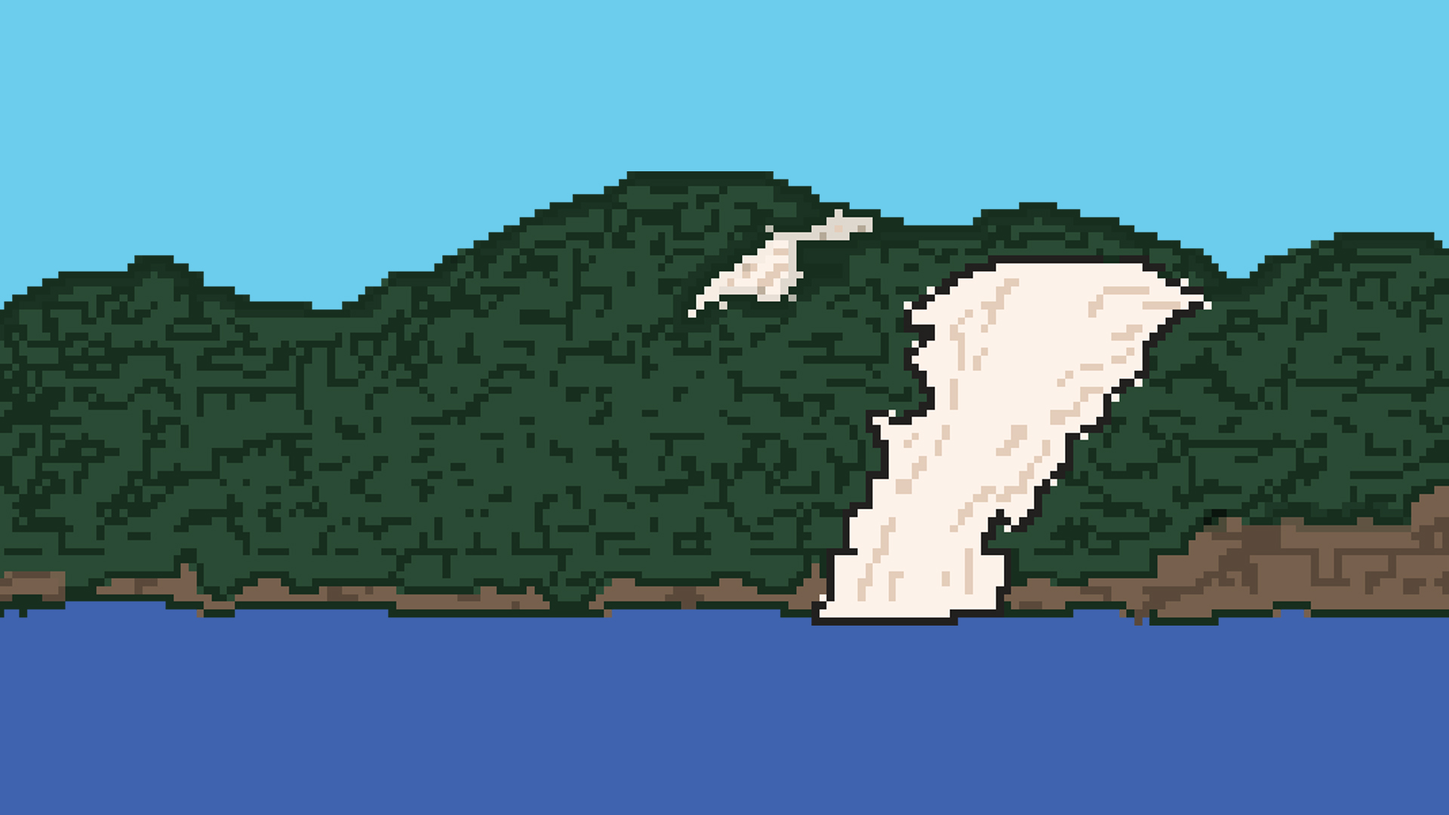
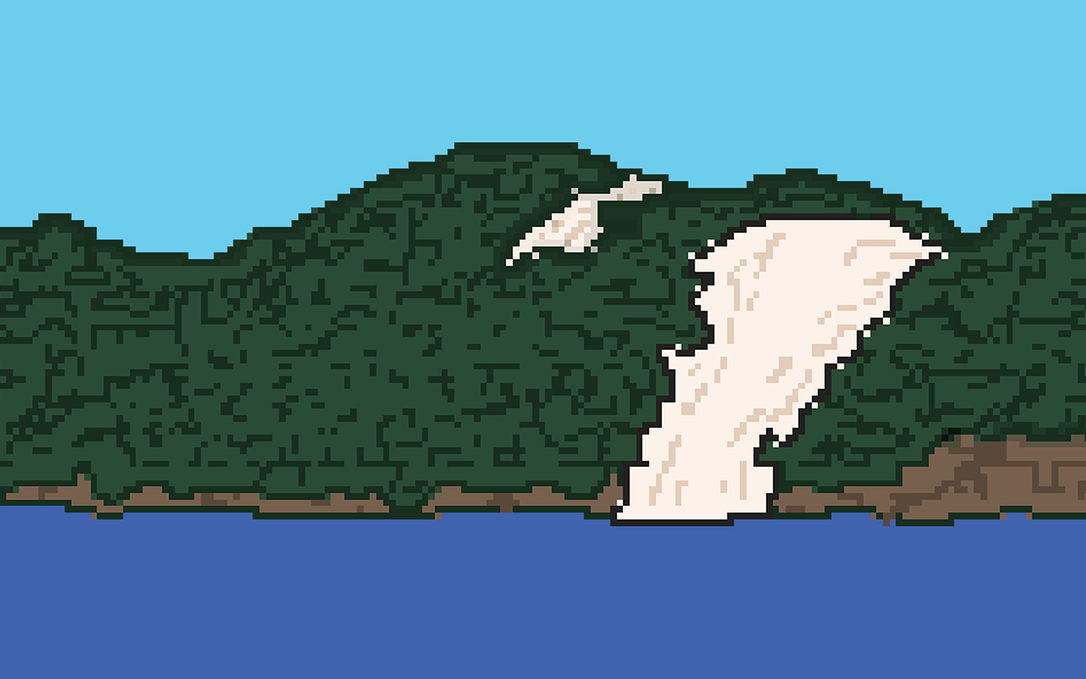
Imagens de fundo responsivas corrigidas.

Changed region(s): [[0.0, 0.1867, 1.0, 0.7778]]

diff --git a/css/style.min.css b/css/style.min.css
@@ -1,1 +1,1 @@
-@charset "UTF-8";@font-face{font-family:"Baloo Bhai";src:url(../fonts/BalooBhai-Regular.eot?) format("eot"),url(../fonts/BalooBhai-Regular.woff) format("woff"),url(../fonts/BalooBhai-Regular.ttf) format("truetype"),url(../fonts/BalooBhai-Regular.otf) format("opentype"),url(../fonts/BalooBhai-Regular.svg#Baloo_Bhai) format("svg")}@font-face{font-family:Roboto;src:url(../fonts/Roboto-Regular.eot?) format("eot"),url(../fonts/Roboto-Regular.woff) format("woff"),url(../fonts/Roboto-Regular.ttf) format("truetype"),url(../fonts/Roboto-Regular.otf) format("opentype"),url(../fonts/Roboto-Regular.svg#Roboto) format("svg")}body{background-color:#002451;font-family:Roboto,sans-serif;color:#fafafa}@media only screen{body{background-color:#002451;background:url(../img/bg/bg-mobile.jpg) no-repeat center center fixed}}@media only screen and (max-width:40em){body{background-color:#002451;background:url(../img/bg/bg-mobile.jpg) no-repeat center center fixed}}@media only screen and (min-width:40.063em){body{background-color:#002451;background:url(../img/bg/bg-mobile.jpg) no-repeat center center fixed}}@media only screen and (min-width:40.063em) and (max-width:64em){body{background-color:#002451;background:url(../img/bg/bg-mobile.jpg) no-repeat center center fixed}}@media only screen and (min-width:64.063em){body{background-color:#002451;background:url(../img/bg/bg.jpg) no-repeat center center fixed}}@media only screen and (min-width:64.063em) and (max-width:90em){body{background-color:#002451;background:url(../img/bg/bg.jpg) no-repeat center center fixed}}@media only screen and (min-width:90.063em){body{background-color:#002451;background:url(../img/bg/bg.jpg) no-repeat center center fixed}}@media only screen and (min-width:90.063em) and (max-width:120em){body{background-color:#002451;background:url(../img/bg/bg.jpg) no-repeat center center fixed}}@media only screen and (min-width:120.063em){body{background-color:#002451;background:url(../img/bg/bg-retina.jpg) no-repeat center center fixed}}body .bg-claro{background-color:#fafafa;background-image:url(../img/wrapper-bg.png)}body h1,body h2,body h3,body h4,body h5,body h6{font-family:"Baloo Bhai",sans-serif;color:#fafafa;text-shadow:1px 1px 1px #222}body p{font-family:Roboto,sans-serif;color:#fafafa}body .alignnone{margin:5px 20px 20px 0}body .aligncenter{display:block;margin:5px auto 5px auto}body div.aligncenter{display:block;margin:5px auto 5px auto}body .alignright{float:right;margin:5px 0 20px 20px}body .alignleft{float:left;margin:5px 20px 20px 0}body a img.alignright{float:right;margin:5px 0 20px 20px}body a img.alignnone{margin:5px 20px 20px 0}body a img.alignleft{float:left;margin:5px 20px 20px 0}body a img.aligncenter{display:block;margin-left:auto;margin-right:auto}body .wp-caption{background:#fff;border:1px solid #f0f0f0;max-width:96%;padding:5px 3px 10px;text-align:center}body .wp-caption img{border:0 none;height:auto;margin:0;max-width:98.5%;padding:0;width:auto}body .wp-caption p.wp-caption-text{font-size:11px;line-height:17px;margin:0;padding:0 4px 5px}body .wp-caption.alignnone{margin:5px 20px 20px 0}body .wp-caption.alignleft{margin:5px 20px 20px 0}body .wp-caption.alignright{margin:5px 0 20px 20px}body .screen-reader-text{border:0;clip:rect(1px,1px,1px,1px);clip-path:inset(50%);height:1px;margin:-1px;overflow:hidden;padding:0;position:absolute!important;width:1px;word-wrap:normal!important}body .screen-reader-text:focus{background-color:#eee;clip:auto!important;clip-path:none;color:#444;display:block;font-size:1em;height:auto;left:5px;line-height:normal;padding:15px 23px 14px;text-decoration:none;top:5px;width:auto;z-index:100000}body header{padding-top:1rem;padding-bottom:1rem}body header .area-logo .logo{background-color:rgba(0,36,81,.8);padding-top:15px;padding-bottom:15px}body header .area-logo .banner{padding-top:15px;padding-bottom:15px}body section .secao-titulo h1{margin:0}body .navegacao{background-color:#6dbe45;margin-bottom:1rem}body .navegacao .top-bar{background-color:#6dbe45!important}body .navegacao .top-bar .title-area .name{background-color:#6dbe45!important}body .navegacao .top-bar .top-bar-section ul{background-color:#6dbe45!important}body .navegacao .top-bar .top-bar-section ul li{background-color:#6dbe45!important}body .navegacao .top-bar .top-bar-section ul li a{background-color:#6dbe45!important;font-family:Roboto,sans-serif;font-size:1rem}body .navegacao .top-bar .top-bar-section ul li a:active,body .navegacao .top-bar .top-bar-section ul li a:focus,body .navegacao .top-bar .top-bar-section ul li a:hover{background-color:#579a36!important;font-weight:700}body .navegacao .top-bar .top-bar-section ul .back a{font-family:Roboto,sans-serif;font-weight:700;font-size:1.2rem}body .navegacao .top-bar .top-bar-section ul .back a::before{content:'◀ '}body .destaques{margin-bottom:1rem}body .destaques .row .destaques-wrapper{padding-top:15px;padding-bottom:15px}body .destaques .row .destaques-wrapper .row .destaque .thumb-container{position:relative;color:#fafafa}body .destaques .row .destaques-wrapper .row .destaque .thumb-container .thumb-texto{background-color:rgba(0,36,81,.8);position:absolute;bottom:10px;left:10px;padding:.5rem}body .destaques .row .destaques-wrapper .row .destaque .thumb-container .thumb-texto h1{margin-top:0;margin-bottom:0}body .destaques .row .destaques-wrapper .row .destaque .thumb-container .thumb-texto p{margin-top:0;margin-bottom:0}body .devs{margin-bottom:1rem}body .conteudo{margin-bottom:1rem}body .conteudo a{color:#c6e6b6}body .conteudo a:active,body .conteudo a:focus,body .conteudo a:hover{color:#e4f3dc}body .conteudo .row .posts-wrapper{padding-top:15px;padding-bottom:15px;min-height:50vh}body .conteudo .row .posts-wrapper .row .noticia .thumb-container{position:relative;color:#fafafa}body .conteudo .row .posts-wrapper .row .noticia .thumb-container .thumb-texto{background-color:rgba(0,36,81,.8);position:absolute;bottom:10px;left:10px;padding:.5rem}body .conteudo .row .posts-wrapper .row .noticia .thumb-container .thumb-texto h1{margin-top:0;margin-bottom:0}body .conteudo .row .posts-wrapper .row .noticia .thumb-container .thumb-texto p{margin-top:0;margin-bottom:0}body .conteudo .row .posts-wrapper .paginacao{font-size:1.2rem;padding-top:1rem}body .conteudo .row .posts-wrapper .paginacao .pagination .nav-links span.current{background-color:#6dbe45;color:#002451}body .conteudo .row .posts-wrapper .paginacao .pagination .nav-links .page-numbers{background-color:#002451;color:#e8e73b;padding:15px}body .conteudo .row .posts-wrapper .paginacao .pagination .nav-links .prev{background-color:#002451;color:#e8e73b}body .conteudo .row .posts-wrapper .paginacao .pagination .nav-links .next{background-color:#002451;color:#e8e73b}body .conteudo-pagina,body .conteudo-post{margin-bottom:1rem}body .conteudo-pagina a,body .conteudo-post a{color:#0068ea}body .conteudo-pagina a:active,body .conteudo-pagina a:focus,body .conteudo-pagina a:hover,body .conteudo-post a:active,body .conteudo-post a:focus,body .conteudo-post a:hover{color:#1e82ff}body .conteudo-pagina .row .pong-breadcrumbs,body .conteudo-post .row .pong-breadcrumbs{background-color:rgba(0,36,81,.8);margin-bottom:1rem;padding:.3rem}body .conteudo-pagina .row .pong-breadcrumbs a,body .conteudo-post .row .pong-breadcrumbs a{color:#9ec9ff}body .conteudo-pagina .row .pong-breadcrumbs a:active,body .conteudo-pagina .row .pong-breadcrumbs a:focus,body .conteudo-pagina .row .pong-breadcrumbs a:hover,body .conteudo-post .row .pong-breadcrumbs a:active,body .conteudo-post .row .pong-breadcrumbs a:focus,body .conteudo-post .row .pong-breadcrumbs a:hover{color:#d1e5ff}body .conteudo-pagina .row .paginas-wrapper,body .conteudo-pagina .row .posts-wrapper,body .conteudo-post .row .paginas-wrapper,body .conteudo-post .row .posts-wrapper{padding-top:15px;padding-bottom:15px;min-height:50vh}body .conteudo-pagina .row .paginas-wrapper .pagina-titulo,body .conteudo-pagina .row .paginas-wrapper .post-titulo,body .conteudo-pagina .row .posts-wrapper .pagina-titulo,body .conteudo-pagina .row .posts-wrapper .post-titulo,body .conteudo-post .row .paginas-wrapper .pagina-titulo,body .conteudo-post .row .paginas-wrapper .post-titulo,body .conteudo-post .row .posts-wrapper .pagina-titulo,body .conteudo-post .row .posts-wrapper .post-titulo{color:#002451}body .conteudo-pagina .row .paginas-wrapper .pagina-titulo h1,body .conteudo-pagina .row .paginas-wrapper .post-titulo h1,body .conteudo-pagina .row .posts-wrapper .pagina-titulo h1,body .conteudo-pagina .row .posts-wrapper .post-titulo h1,body .conteudo-post .row .paginas-wrapper .pagina-titulo h1,body .conteudo-post .row .paginas-wrapper .post-titulo h1,body .conteudo-post .row .posts-wrapper .pagina-titulo h1,body .conteudo-post .row .posts-wrapper .post-titulo h1{font-size:2.8rem;color:#0051b7;margin:0}body .conteudo-pagina .row .paginas-wrapper .pagina-texto,body .conteudo-pagina .row .paginas-wrapper .post-texto,body .conteudo-pagina .row .posts-wrapper .pagina-texto,body .conteudo-pagina .row .posts-wrapper .post-texto,body .conteudo-post .row .paginas-wrapper .pagina-texto,body .conteudo-post .row .paginas-wrapper .post-texto,body .conteudo-post .row .posts-wrapper .pagina-texto,body .conteudo-post .row .posts-wrapper .post-texto{color:#222}body .conteudo-pagina .row .paginas-wrapper .pagina-texto h1,body .conteudo-pagina .row .paginas-wrapper .pagina-texto h2,body .conteudo-pagina .row .paginas-wrapper .pagina-texto h3,body .conteudo-pagina .row .paginas-wrapper .pagina-texto h4,body .conteudo-pagina .row .paginas-wrapper .pagina-texto h5,body .conteudo-pagina .row .paginas-wrapper .pagina-texto h6,body .conteudo-pagina .row .paginas-wrapper .post-texto h1,body .conteudo-pagina .row .paginas-wrapper .post-texto h2,body .conteudo-pagina .row .paginas-wrapper .post-texto h3,body .conteudo-pagina .row .paginas-wrapper .post-texto h4,body .conteudo-pagina .row .paginas-wrapper .post-texto h5,body .conteudo-pagina .row .paginas-wrapper .post-texto h6,body .conteudo-pagina .row .posts-wrapper .pagina-texto h1,body .conteudo-pagina .row .posts-wrapper .pagina-texto h2,body .conteudo-pagina .row .posts-wrapper .pagina-texto h3,body .conteudo-pagina .row .posts-wrapper .pagina-texto h4,body .conteudo-pagina .row .posts-wrapper .pagina-texto h5,body .conteudo-pagina .row .posts-wrapper .pagina-texto h6,body .conteudo-pagina .row .posts-wrapper .post-texto h1,body .conteudo-pagina .row .posts-wrapper .post-texto h2,body .conteudo-pagina .row .posts-wrapper .post-texto h3,body .conteudo-pagina .row .posts-wrapper .post-texto h4,body .conteudo-pagina .row .posts-wrapper .post-texto h5,body .conteudo-pagina .row .posts-wrapper .post-texto h6,body .conteudo-post .row .paginas-wrapper .pagina-texto h1,body .conteudo-post .row .paginas-wrapper .pagina-texto h2,body .conteudo-post .row .paginas-wrapper .pagina-texto h3,body .conteudo-post .row .paginas-wrapper .pagina-texto h4,body .conteudo-post .row .paginas-wrapper .pagina-texto h5,body .conteudo-post .row .paginas-wrapper .pagina-texto h6,body .conteudo-post .row .paginas-wrapper .post-texto h1,body .conteudo-post .row .paginas-wrapper .post-texto h2,body .conteudo-post .row .paginas-wrapper .post-texto h3,body .conteudo-post .row .paginas-wrapper .post-texto h4,body .conteudo-post .row .paginas-wrapper .post-texto h5,body .conteudo-post .row .paginas-wrapper .post-texto h6,body .conteudo-post .row .posts-wrapper .pagina-texto h1,body .conteudo-post .row .posts-wrapper .pagina-texto h2,body .conteudo-post .row .posts-wrapper .pagina-texto h3,body .conteudo-post .row .posts-wrapper .pagina-texto h4,body .conteudo-post .row .posts-wrapper .pagina-texto h5,body .conteudo-post .row .posts-wrapper .pagina-texto h6,body .conteudo-post .row .posts-wrapper .post-texto h1,body .conteudo-post .row .posts-wrapper .post-texto h2,body .conteudo-post .row .posts-wrapper .post-texto h3,body .conteudo-post .row .posts-wrapper .post-texto h4,body .conteudo-post .row .posts-wrapper .post-texto h5,body .conteudo-post .row .posts-wrapper .post-texto h6{color:#222;text-shadow:none}body .conteudo-pagina .row .paginas-wrapper .pagina-texto h1,body .conteudo-pagina .row .paginas-wrapper .post-texto h1,body .conteudo-pagina .row .posts-wrapper .pagina-texto h1,body .conteudo-pagina .row .posts-wrapper .post-texto h1,body .conteudo-post .row .paginas-wrapper .pagina-texto h1,body .conteudo-post .row .paginas-wrapper .post-texto h1,body .conteudo-post .row .posts-wrapper .pagina-texto h1,body .conteudo-post .row .posts-wrapper .post-texto h1{font-size:2.8rem;margin-top:.2rem;margin-bottom:.5rem}body .conteudo-pagina .row .paginas-wrapper .pagina-texto p,body .conteudo-pagina .row .paginas-wrapper .post-texto p,body .conteudo-pagina .row .posts-wrapper .pagina-texto p,body .conteudo-pagina .row .posts-wrapper .post-texto p,body .conteudo-post .row .paginas-wrapper .pagina-texto p,body .conteudo-post .row .paginas-wrapper .post-texto p,body .conteudo-post .row .posts-wrapper .pagina-texto p,body .conteudo-post .row .posts-wrapper .post-texto p{color:#222}body .conteudo-pagina .row .paginas-wrapper .post-comentarios,body .conteudo-pagina .row .posts-wrapper .post-comentarios,body .conteudo-post .row .paginas-wrapper .post-comentarios,body .conteudo-post .row .posts-wrapper .post-comentarios{color:#222}body .conteudo-pagina .row .paginas-wrapper .post-comentarios p,body .conteudo-pagina .row .posts-wrapper .post-comentarios p,body .conteudo-post .row .paginas-wrapper .post-comentarios p,body .conteudo-post .row .posts-wrapper .post-comentarios p{color:#222}body .conteudo-pagina .row .sidebar,body .conteudo-post .row .sidebar{background-color:rgba(109,190,69,.9)}body .conteudo-pagina .row .sidebar a,body .conteudo-post .row .sidebar a{color:#0068ea}body .conteudo-pagina .row .sidebar a:active,body .conteudo-pagina .row .sidebar a:focus,body .conteudo-pagina .row .sidebar a:hover,body .conteudo-post .row .sidebar a:active,body .conteudo-post .row .sidebar a:focus,body .conteudo-post .row .sidebar a:hover{color:#1e82ff}body .conteudo-pagina .row .sidebar .widget,body .conteudo-post .row .sidebar .widget{margin-bottom:1rem}body .conteudo-pagina .row .sidebar .widget h1,body .conteudo-post .row .sidebar .widget h1{background-color:#579a36;padding-left:.5rem;padding-right:.5rem;margin-top:.5rem;margin-bottom:.5rem}body footer{padding-top:1rem;padding-bottom:1rem;background-color:rgba(109,190,69,.9);color:#fafafa}body footer a{color:#0068ea}body footer a:active,body footer a:focus,body footer a:hover{color:#1e82ff}body footer .row .widgets{margin-top:1rem;display:flex;flex-direction:row;flex-wrap:wrap}body footer .row .widgets .widget{margin-bottom:1rem}body footer .row .widgets .widget h1{background-color:#579a36;padding-left:.5rem;padding-right:.5rem;margin-top:.5rem;margin-bottom:.5rem}body footer .row .creditos{font-size:.9rem}
+@charset "UTF-8";@font-face{font-family:"Baloo Bhai";src:url(../fonts/BalooBhai-Regular.eot?) format("eot"),url(../fonts/BalooBhai-Regular.woff) format("woff"),url(../fonts/BalooBhai-Regular.ttf) format("truetype"),url(../fonts/BalooBhai-Regular.otf) format("opentype"),url(../fonts/BalooBhai-Regular.svg#Baloo_Bhai) format("svg")}@font-face{font-family:Roboto;src:url(../fonts/Roboto-Regular.eot?) format("eot"),url(../fonts/Roboto-Regular.woff) format("woff"),url(../fonts/Roboto-Regular.ttf) format("truetype"),url(../fonts/Roboto-Regular.otf) format("opentype"),url(../fonts/Roboto-Regular.svg#Roboto) format("svg")}body{background-color:#002451;font-family:Roboto,sans-serif;color:#fafafa}@media only screen{body{background-color:#002451;background:url(../img/bg/bg-mobile.jpg) no-repeat center center fixed;background-size:cover}}@media only screen and (max-width:40em){body{background-color:#002451;background:url(../img/bg/bg-mobile.jpg) no-repeat center center fixed;background-size:cover}}@media only screen and (min-width:40.063em){body{background-color:#002451;background:url(../img/bg/bg-medium.jpg) no-repeat center center fixed;background-size:cover}}@media only screen and (min-width:40.063em) and (max-width:64em){body{background-color:#002451;background:url(../img/bg/bg-medium.jpg) no-repeat center center fixed;background-size:cover}}@media only screen and (min-width:64.063em){body{background-color:#002451;background:url(../img/bg/bg.jpg) no-repeat center center fixed;background-size:cover}}@media only screen and (min-width:64.063em) and (max-width:90em){body{background-color:#002451;background:url(../img/bg/bg.jpg) no-repeat center center fixed;background-size:cover}}@media only screen and (min-width:90.063em){body{background-color:#002451;background:url(../img/bg/bg-hd.jpg) no-repeat center center fixed;background-size:cover}}@media only screen and (min-width:90.063em) and (max-width:120em){body{background-color:#002451;background:url(../img/bg/bg-hd.jpg) no-repeat center center fixed;background-size:cover}}@media only screen and (min-width:120.063em){body{background-color:#002451;background:url(../img/bg/bg-retina.jpg) no-repeat center center fixed;background-size:cover}}body .bg-claro{background-color:#fafafa;background-image:url(../img/wrapper-bg.png)}body h1,body h2,body h3,body h4,body h5,body h6{font-family:"Baloo Bhai",sans-serif;color:#fafafa;text-shadow:1px 1px 1px #222}body p{font-family:Roboto,sans-serif;color:#fafafa}body .alignnone{margin:5px 20px 20px 0}body .aligncenter{display:block;margin:5px auto 5px auto}body div.aligncenter{display:block;margin:5px auto 5px auto}body .alignright{float:right;margin:5px 0 20px 20px}body .alignleft{float:left;margin:5px 20px 20px 0}body a img.alignright{float:right;margin:5px 0 20px 20px}body a img.alignnone{margin:5px 20px 20px 0}body a img.alignleft{float:left;margin:5px 20px 20px 0}body a img.aligncenter{display:block;margin-left:auto;margin-right:auto}body .wp-caption{background:#fff;border:1px solid #f0f0f0;max-width:96%;padding:5px 3px 10px;text-align:center}body .wp-caption img{border:0 none;height:auto;margin:0;max-width:98.5%;padding:0;width:auto}body .wp-caption p.wp-caption-text{font-size:11px;line-height:17px;margin:0;padding:0 4px 5px}body .wp-caption.alignnone{margin:5px 20px 20px 0}body .wp-caption.alignleft{margin:5px 20px 20px 0}body .wp-caption.alignright{margin:5px 0 20px 20px}body .screen-reader-text{border:0;clip:rect(1px,1px,1px,1px);clip-path:inset(50%);height:1px;margin:-1px;overflow:hidden;padding:0;position:absolute!important;width:1px;word-wrap:normal!important}body .screen-reader-text:focus{background-color:#eee;clip:auto!important;clip-path:none;color:#444;display:block;font-size:1em;height:auto;left:5px;line-height:normal;padding:15px 23px 14px;text-decoration:none;top:5px;width:auto;z-index:100000}body header{padding-top:1rem;padding-bottom:1rem}body header .area-logo .logo{background-color:rgba(0,36,81,.8);padding-top:15px;padding-bottom:15px}body header .area-logo .banner{padding-top:15px;padding-bottom:15px}body section .secao-titulo h1{margin:0}body .navegacao{background-color:#6dbe45;margin-bottom:1rem}body .navegacao .top-bar{background-color:#6dbe45!important}body .navegacao .top-bar .title-area .name{background-color:#6dbe45!important}body .navegacao .top-bar .top-bar-section ul{background-color:#6dbe45!important}body .navegacao .top-bar .top-bar-section ul li{background-color:#6dbe45!important}body .navegacao .top-bar .top-bar-section ul li a{background-color:#6dbe45!important;font-family:Roboto,sans-serif;font-size:1rem}body .navegacao .top-bar .top-bar-section ul li a:active,body .navegacao .top-bar .top-bar-section ul li a:focus,body .navegacao .top-bar .top-bar-section ul li a:hover{background-color:#579a36!important;font-weight:700}body .navegacao .top-bar .top-bar-section ul .back a{font-family:Roboto,sans-serif;font-weight:700;font-size:1.2rem}body .navegacao .top-bar .top-bar-section ul .back a::before{content:'◀ '}body .destaques{margin-bottom:1rem}body .destaques .row .destaques-wrapper{padding-top:15px;padding-bottom:15px}body .destaques .row .destaques-wrapper .row .destaque .thumb-container{position:relative;color:#fafafa}body .destaques .row .destaques-wrapper .row .destaque .thumb-container .thumb-texto{background-color:rgba(0,36,81,.8);position:absolute;bottom:10px;left:10px;padding:.5rem}body .destaques .row .destaques-wrapper .row .destaque .thumb-container .thumb-texto h1{margin-top:0;margin-bottom:0}body .destaques .row .destaques-wrapper .row .destaque .thumb-container .thumb-texto p{margin-top:0;margin-bottom:0}body .devs{margin-bottom:1rem}body .conteudo{margin-bottom:1rem}body .conteudo a{color:#c6e6b6}body .conteudo a:active,body .conteudo a:focus,body .conteudo a:hover{color:#e4f3dc}body .conteudo .row .posts-wrapper{padding-top:15px;padding-bottom:15px;min-height:25vh}body .conteudo .row .posts-wrapper .row .noticia .thumb-container{position:relative;color:#fafafa}body .conteudo .row .posts-wrapper .row .noticia .thumb-container .thumb-texto{background-color:rgba(0,36,81,.8);position:absolute;bottom:10px;left:10px;padding:.5rem}body .conteudo .row .posts-wrapper .row .noticia .thumb-container .thumb-texto h1{margin-top:0;margin-bottom:0}body .conteudo .row .posts-wrapper .row .noticia .thumb-container .thumb-texto p{margin-top:0;margin-bottom:0}body .conteudo .row .posts-wrapper .paginacao{font-size:1.2rem;padding-top:1rem}body .conteudo .row .posts-wrapper .paginacao .pagination .nav-links span.current{background-color:#6dbe45;color:#002451}body .conteudo .row .posts-wrapper .paginacao .pagination .nav-links .page-numbers{background-color:#002451;color:#e8e73b;padding:15px}body .conteudo .row .posts-wrapper .paginacao .pagination .nav-links .prev{background-color:#002451;color:#e8e73b}body .conteudo .row .posts-wrapper .paginacao .pagination .nav-links .next{background-color:#002451;color:#e8e73b}body .conteudo-pagina,body .conteudo-post{margin-bottom:1rem}body .conteudo-pagina a,body .conteudo-post a{color:#0068ea}body .conteudo-pagina a:active,body .conteudo-pagina a:focus,body .conteudo-pagina a:hover,body .conteudo-post a:active,body .conteudo-post a:focus,body .conteudo-post a:hover{color:#1e82ff}body .conteudo-pagina .row .pong-breadcrumbs,body .conteudo-post .row .pong-breadcrumbs{background-color:rgba(0,36,81,.8);margin-bottom:1rem;padding:.3rem}body .conteudo-pagina .row .pong-breadcrumbs a,body .conteudo-post .row .pong-breadcrumbs a{color:#9ec9ff}body .conteudo-pagina .row .pong-breadcrumbs a:active,body .conteudo-pagina .row .pong-breadcrumbs a:focus,body .conteudo-pagina .row .pong-breadcrumbs a:hover,body .conteudo-post .row .pong-breadcrumbs a:active,body .conteudo-post .row .pong-breadcrumbs a:focus,body .conteudo-post .row .pong-breadcrumbs a:hover{color:#d1e5ff}body .conteudo-pagina .row .paginas-wrapper,body .conteudo-pagina .row .posts-wrapper,body .conteudo-post .row .paginas-wrapper,body .conteudo-post .row .posts-wrapper{padding-top:15px;padding-bottom:15px;min-height:25vh}body .conteudo-pagina .row .paginas-wrapper .pagina-titulo,body .conteudo-pagina .row .paginas-wrapper .post-titulo,body .conteudo-pagina .row .posts-wrapper .pagina-titulo,body .conteudo-pagina .row .posts-wrapper .post-titulo,body .conteudo-post .row .paginas-wrapper .pagina-titulo,body .conteudo-post .row .paginas-wrapper .post-titulo,body .conteudo-post .row .posts-wrapper .pagina-titulo,body .conteudo-post .row .posts-wrapper .post-titulo{color:#002451}body .conteudo-pagina .row .paginas-wrapper .pagina-titulo h1,body .conteudo-pagina .row .paginas-wrapper .post-titulo h1,body .conteudo-pagina .row .posts-wrapper .pagina-titulo h1,body .conteudo-pagina .row .posts-wrapper .post-titulo h1,body .conteudo-post .row .paginas-wrapper .pagina-titulo h1,body .conteudo-post .row .paginas-wrapper .post-titulo h1,body .conteudo-post .row .posts-wrapper .pagina-titulo h1,body .conteudo-post .row .posts-wrapper .post-titulo h1{font-size:2.8rem;color:#0051b7;margin:0}body .conteudo-pagina .row .paginas-wrapper .pagina-texto,body .conteudo-pagina .row .paginas-wrapper .post-texto,body .conteudo-pagina .row .posts-wrapper .pagina-texto,body .conteudo-pagina .row .posts-wrapper .post-texto,body .conteudo-post .row .paginas-wrapper .pagina-texto,body .conteudo-post .row .paginas-wrapper .post-texto,body .conteudo-post .row .posts-wrapper .pagina-texto,body .conteudo-post .row .posts-wrapper .post-texto{color:#222}body .conteudo-pagina .row .paginas-wrapper .pagina-texto h1,body .conteudo-pagina .row .paginas-wrapper .pagina-texto h2,body .conteudo-pagina .row .paginas-wrapper .pagina-texto h3,body .conteudo-pagina .row .paginas-wrapper .pagina-texto h4,body .conteudo-pagina .row .paginas-wrapper .pagina-texto h5,body .conteudo-pagina .row .paginas-wrapper .pagina-texto h6,body .conteudo-pagina .row .paginas-wrapper .post-texto h1,body .conteudo-pagina .row .paginas-wrapper .post-texto h2,body .conteudo-pagina .row .paginas-wrapper .post-texto h3,body .conteudo-pagina .row .paginas-wrapper .post-texto h4,body .conteudo-pagina .row .paginas-wrapper .post-texto h5,body .conteudo-pagina .row .paginas-wrapper .post-texto h6,body .conteudo-pagina .row .posts-wrapper .pagina-texto h1,body .conteudo-pagina .row .posts-wrapper .pagina-texto h2,body .conteudo-pagina .row .posts-wrapper .pagina-texto h3,body .conteudo-pagina .row .posts-wrapper .pagina-texto h4,body .conteudo-pagina .row .posts-wrapper .pagina-texto h5,body .conteudo-pagina .row .posts-wrapper .pagina-texto h6,body .conteudo-pagina .row .posts-wrapper .post-texto h1,body .conteudo-pagina .row .posts-wrapper .post-texto h2,body .conteudo-pagina .row .posts-wrapper .post-texto h3,body .conteudo-pagina .row .posts-wrapper .post-texto h4,body .conteudo-pagina .row .posts-wrapper .post-texto h5,body .conteudo-pagina .row .posts-wrapper .post-texto h6,body .conteudo-post .row .paginas-wrapper .pagina-texto h1,body .conteudo-post .row .paginas-wrapper .pagina-texto h2,body .conteudo-post .row .paginas-wrapper .pagina-texto h3,body .conteudo-post .row .paginas-wrapper .pagina-texto h4,body .conteudo-post .row .paginas-wrapper .pagina-texto h5,body .conteudo-post .row .paginas-wrapper .pagina-texto h6,body .conteudo-post .row .paginas-wrapper .post-texto h1,body .conteudo-post .row .paginas-wrapper .post-texto h2,body .conteudo-post .row .paginas-wrapper .post-texto h3,body .conteudo-post .row .paginas-wrapper .post-texto h4,body .conteudo-post .row .paginas-wrapper .post-texto h5,body .conteudo-post .row .paginas-wrapper .post-texto h6,body .conteudo-post .row .posts-wrapper .pagina-texto h1,body .conteudo-post .row .posts-wrapper .pagina-texto h2,body .conteudo-post .row .posts-wrapper .pagina-texto h3,body .conteudo-post .row .posts-wrapper .pagina-texto h4,body .conteudo-post .row .posts-wrapper .pagina-texto h5,body .conteudo-post .row .posts-wrapper .pagina-texto h6,body .conteudo-post .row .posts-wrapper .post-texto h1,body .conteudo-post .row .posts-wrapper .post-texto h2,body .conteudo-post .row .posts-wrapper .post-texto h3,body .conteudo-post .row .posts-wrapper .post-texto h4,body .conteudo-post .row .posts-wrapper .post-texto h5,body .conteudo-post .row .posts-wrapper .post-texto h6{color:#222;text-shadow:none}body .conteudo-pagina .row .paginas-wrapper .pagina-texto h1,body .conteudo-pagina .row .paginas-wrapper .post-texto h1,body .conteudo-pagina .row .posts-wrapper .pagina-texto h1,body .conteudo-pagina .row .posts-wrapper .post-texto h1,body .conteudo-post .row .paginas-wrapper .pagina-texto h1,body .conteudo-post .row .paginas-wrapper .post-texto h1,body .conteudo-post .row .posts-wrapper .pagina-texto h1,body .conteudo-post .row .posts-wrapper .post-texto h1{font-size:2.8rem;margin-top:.2rem;margin-bottom:.5rem}body .conteudo-pagina .row .paginas-wrapper .pagina-texto p,body .conteudo-pagina .row .paginas-wrapper .post-texto p,body .conteudo-pagina .row .posts-wrapper .pagina-texto p,body .conteudo-pagina .row .posts-wrapper .post-texto p,body .conteudo-post .row .paginas-wrapper .pagina-texto p,body .conteudo-post .row .paginas-wrapper .post-texto p,body .conteudo-post .row .posts-wrapper .pagina-texto p,body .conteudo-post .row .posts-wrapper .post-texto p{color:#222}body .conteudo-pagina .row .paginas-wrapper .post-comentarios,body .conteudo-pagina .row .posts-wrapper .post-comentarios,body .conteudo-post .row .paginas-wrapper .post-comentarios,body .conteudo-post .row .posts-wrapper .post-comentarios{color:#222}body .conteudo-pagina .row .paginas-wrapper .post-comentarios p,body .conteudo-pagina .row .posts-wrapper .post-comentarios p,body .conteudo-post .row .paginas-wrapper .post-comentarios p,body .conteudo-post .row .posts-wrapper .post-comentarios p{color:#222}body .conteudo-pagina .row .sidebar,body .conteudo-post .row .sidebar{background-color:rgba(109,190,69,.9)}body .conteudo-pagina .row .sidebar a,body .conteudo-post .row .sidebar a{color:#0068ea}body .conteudo-pagina .row .sidebar a:active,body .conteudo-pagina .row .sidebar a:focus,body .conteudo-pagina .row .sidebar a:hover,body .conteudo-post .row .sidebar a:active,body .conteudo-post .row .sidebar a:focus,body .conteudo-post .row .sidebar a:hover{color:#1e82ff}body .conteudo-pagina .row .sidebar .widget,body .conteudo-post .row .sidebar .widget{margin-bottom:1rem}body .conteudo-pagina .row .sidebar .widget h1,body .conteudo-post .row .sidebar .widget h1{background-color:#579a36;padding-left:.5rem;padding-right:.5rem;margin-top:.5rem;margin-bottom:.5rem}body footer{padding-top:1rem;padding-bottom:1rem;background-color:rgba(109,190,69,.9);color:#fafafa}body footer a{color:#0068ea}body footer a:active,body footer a:focus,body footer a:hover{color:#1e82ff}body footer .row .widgets{margin-top:1rem;display:flex;flex-direction:row;flex-wrap:wrap}body footer .row .widgets .widget{margin-bottom:1rem}body footer .row .widgets .widget h1{background-color:#579a36;padding-left:.5rem;padding-right:.5rem;margin-top:.5rem;margin-bottom:.5rem}body footer .row .creditos{font-size:.9rem}
